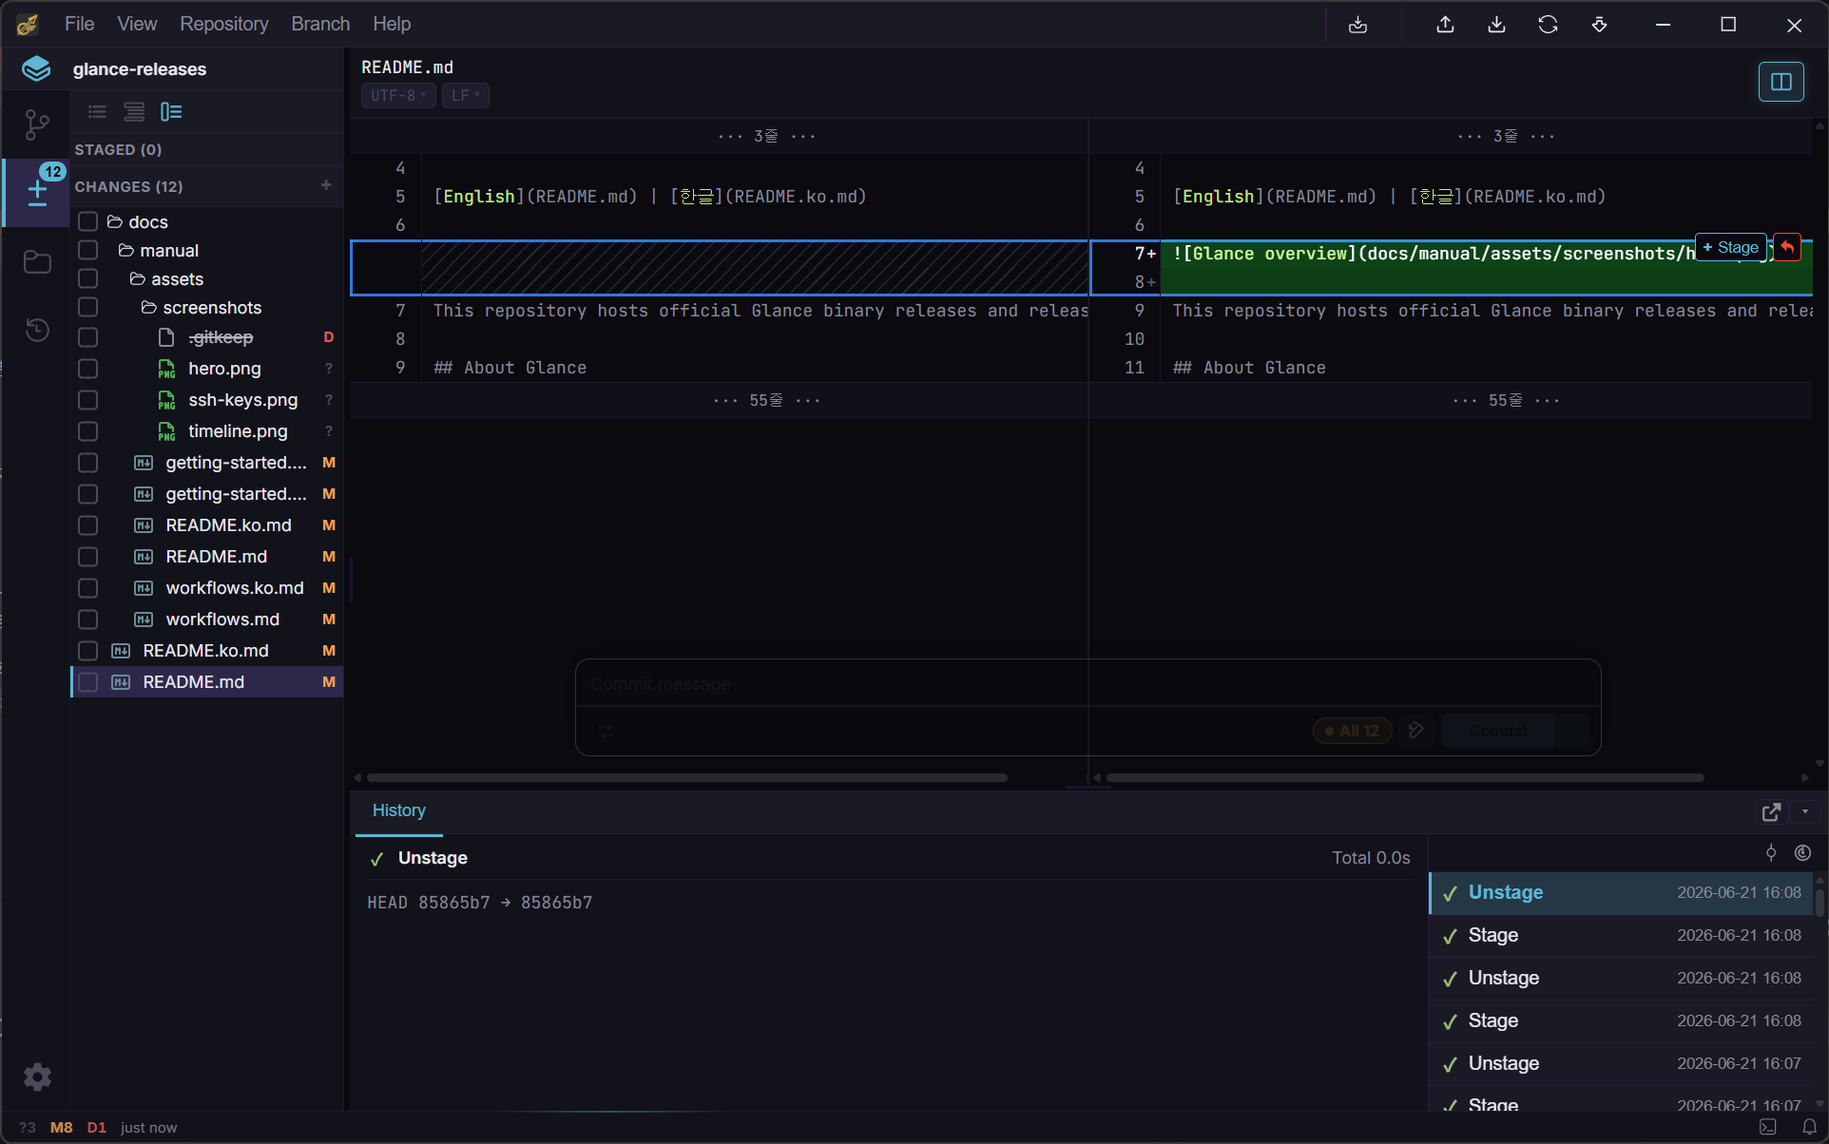
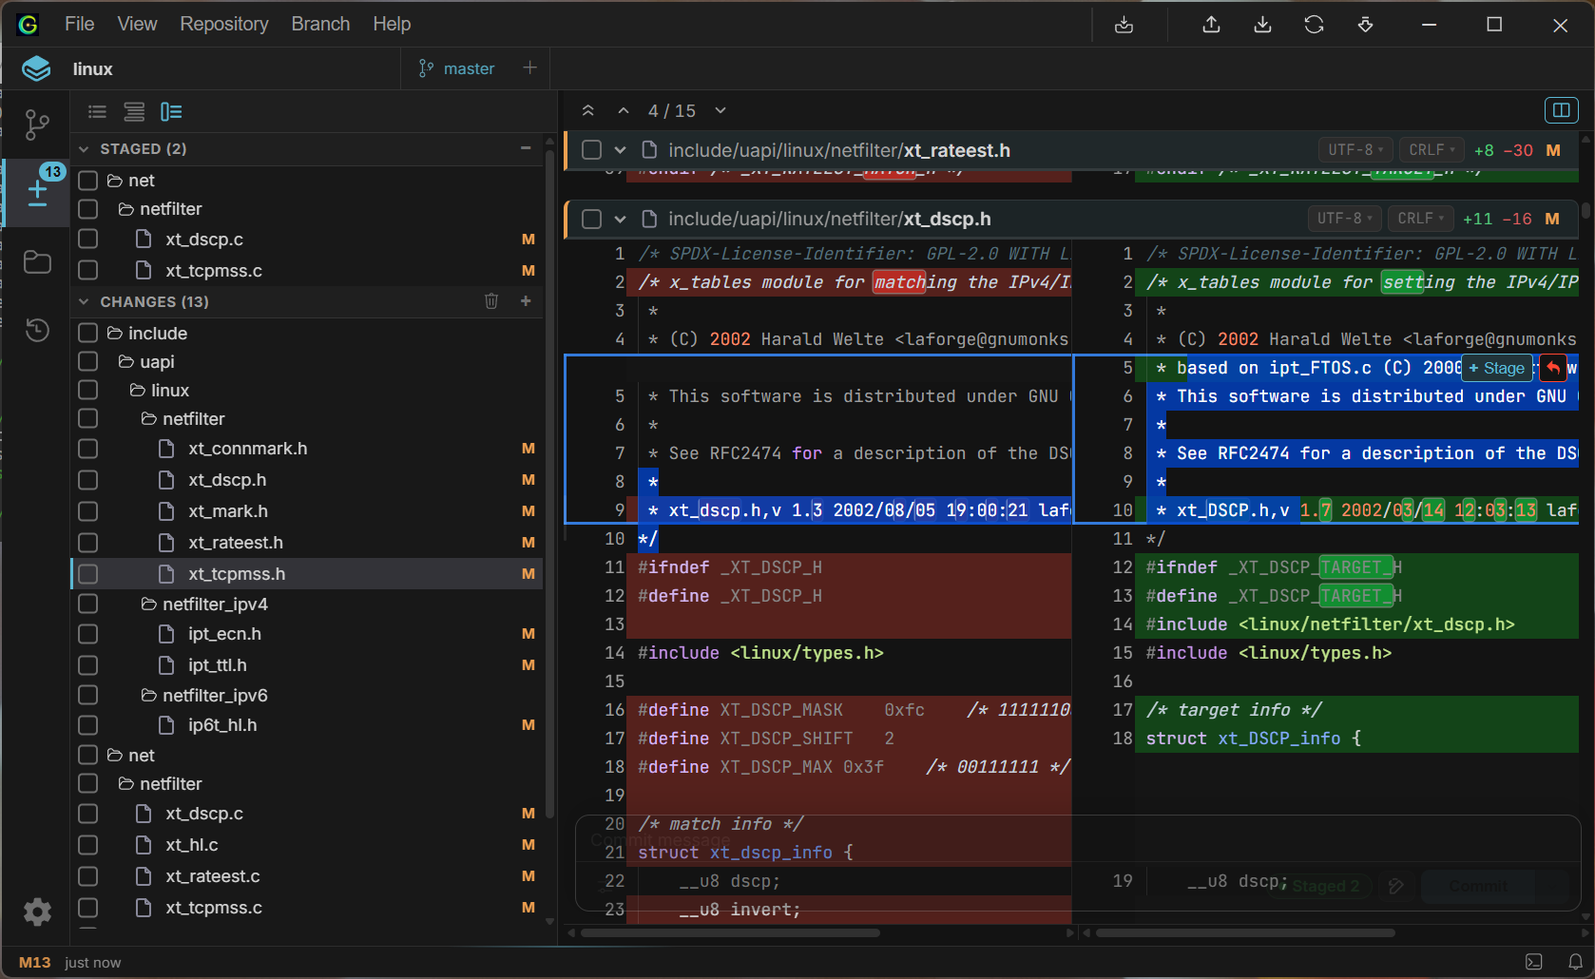
Docs: Promote LFS locking, worktree tabs, and other 0.85.x features
Several user-facing features that shipped across 0.85.1-0.85.6 were only
ever mentioned in CHANGELOG.md and never made it into the README or
manual: Git LFS file locking, the LFS tracking guardrail, worktree tabs,
Rebase onto upstream, Windows taskbar progress, diff view enhancements
(word-level highlighting, per-field CSV coloring, indent guides), pull
auto-stash-retry, and the fetch results toast.

Also fixes the Worktrees section, which still described the pre-0.85.4
sidebar selector, and corrects stale "personal/non-commercial only"
license wording left over in the German and Japanese READMEs.

Adds new screenshots for the worktree tab strip and Git LFS locking, and
recaptures staging.png to show the unified multi-file diff view instead
of the pre-0.85.1 hunk-only view.

Updated README.md and docs/manual/workflows.md across all four languages
(EN/KO/DE/JA).

diff --git a/docs/manual/workflows.de.md b/docs/manual/workflows.de.md
@@ -28,13 +28,16 @@ Wenn ein Hard-Reset fehlschlägt, können Sie mit [Timeline](#timeline) normaler
 
 Der Tab **Changes** ist Ihr Staging-Bereich des Arbeitsverzeichnisses, aufgeteilt in **Staged**, **Unstaged** und (falls vorhanden) **Conflicts** Abschnitte. Wechseln Sie zwischen den Layouts Flat, Grouped und Tree, je nachdem, wie Sie eine große Änderungsmenge durchsuchen möchten.
 
+- Das Diff-Panel zeigt jede geänderte Datei in einem kontinuierlichen Scroll statt sie einzeln zu öffnen — schalten Sie zwischen einheitlichen und geteilten Layouts um und ziehen Sie über Zeilen, um einen Bereich auf einmal zu stage oder zu verwerfen
 - Aktivieren Sie ein Kontrollkästchen für eine Datei oder einen Ordner, um sie zu stage/unstage — Kontrollkästchen unterstützen `Ctrl`/`Shift` Mehrfachauswahl
-- Öffnen Sie den Diff einer Datei, um einzelne Hunks oder Zeilen zu stage oder zu verwerfen, nicht nur ganze Dateien
-- Verwerfen ist auf Datei- oder Hunk-Ebene verfügbar
+- Verwerfen ist auf Datei-, Hunk- oder Zeilen-Bereichs-Ebene verfügbar
+- Binärdateien zeigen eine Größenkarte statt eines Diffs
+- Wort-Level-Hervorhebung markiert genau, welche Zeichen sich in einer Zeile geändert haben; CSV/TSV-Diffs färben jede Spalte separat; Einzugsanleitungen markieren Verschachtelungstiefe in Code-Diffs
+- Ein Badge kennzeichnet große Binärdateien, die nicht von Git LFS verfolgt werden, mit einer Aktion **Track with LFS** zum Hinzufügen zu `.gitattributes` (die Größenschwelle und ob diese Überprüfung überhaupt läuft, sind in Settings konfigurierbar)
 - Schreiben Sie Ihre Commit-Nachricht im Panel unten und senden Sie sie mit `Ctrl+Enter` ab
 - Der Diff-Header zeigt die Kodierung jeder Datei (UTF-8, EUC-KR usw.) und Zeilenenden (LF/CRLF) an; für nicht-gestaffelte Arbeitskopie-Dateien können Sie durch Klicken auf einen Chip die Konvertierung durchführen
 
-Änderungen werden von einem File Watcher in Echtzeit erkannt — keine manuelle Aktualisierung erforderlich.
+Änderungen werden von einem File Watcher in Echtzeit erkannt — keine manuelle Aktualisierung erforderlich. Diese einheitliche Multi-Datei-Ansicht wird auch im **Changes**-Tab eines Commits angezeigt, sodass das Überprüfen der Historie genauso funktioniert wie das Überprüfen Ihres Arbeitsverzeichnisses.
 
 ### Co-Autoren und Signierung
 
@@ -47,14 +50,14 @@ Das Zahnradsymbol (⚙) über der Commit-Nachricht ermöglicht:
 
 Aktivieren Sie **Amend** im Commit-Panel, um Ihre gestaffelten Änderungen in den vorherigen Commit zu falten, anstatt einen neuen zu erstellen. Die Nachricht und der Autor werden aus diesem Commit vorgefüllt, und der Abschnitt Staged zeigt, was der geänderte Commit enthält — Zeilen, die bereits in `HEAD` sind, sind schreibgeschützt, und das Unstagen einer Datei entfernt sie aus dem Amend.
 
-![Changes-Panel mit Hunk-Level-Staging](assets/screenshots/staging.png)
+![Changes-Panel mit Multi-Datei-Diff und Wort-Level-Hervorhebung](assets/screenshots/staging.png)
 
 ## Branching & Merging
 
-Erstellen, checken Sie aus, benennen Sie um und löschen Sie Branches aus der Seitenleiste oder dem Branch-Menü. Checkout zeigt den Fortschritt für große Repos und berührt nur die Pfade, die sich tatsächlich geändert haben.
+Erstellen, checken Sie aus, benennen Sie um und löschen Sie Branches aus der Seitenleiste oder dem Branch-Menü. Checkout zeigt den Fortschritt für große Repos und berührt nur die Pfade, die sich tatsächlich geändert haben; unter Windows zeigen langwierige Operationen (Checkout, Pull, Push, Rebase, Sync und mehr) auch den Fortschritt auf dem Taskbar-Icon, auch wenn das Fenster minimiert ist.
 
 - **Merge** einen Branch in den aktuellen (Fast-Forward oder echter Merge-Commit); wenn Konflikte auftreten, wird der Merge Editor geöffnet
-- **Rebase onto** einen Branch oder Commit — der Fortschritt wird phasenweise angezeigt (Checkout, Commit-Replay usw.)
+- **Rebase onto** einen Branch oder Commit — der Fortschritt wird phasenweise angezeigt (Checkout, Commit-Replay usw.); wenn der Branch ein Upstream konfiguriert hat, wird sein Kontextmenü auch eine One-Click-Option **Rebase onto upstream** anbieten
 - **Cherry-pick** einen Commit aus seinem Kontextmenü auf den aktuellen Branch
 - **Tags** können einzeln erstellt, gelöscht und gepusht werden; mit Anmerkungen versehene Tag-Nachrichten sind inline sichtbar
 
@@ -76,7 +79,7 @@ Wenn Sie lieber ein externes Tool verwenden möchten (Beyond Compare, WinMerge, 
 
 ## Remote-Synchronisierung
 
-Fügen Sie Remotes aus der Seitenleiste hinzu, bearbeiten oder entfernen Sie diese. Fetch wird bei Bedarf ausgeführt oder läuft automatisch im Hintergrund (standardmäßig alle 3 Minuten — anpassbar in den Einstellungen). Push unterstützt Force und Force-with-Lease. Pull kann Merge durchführen (Fast-Forward oder Three-Way, mit Konfliktauflösung) oder Rebase.
+Fügen Sie Remotes aus der Seitenleiste hinzu, bearbeiten oder entfernen Sie diese. Fetch wird bei Bedarf ausgeführt oder läuft automatisch im Hintergrund (standardmäßig alle 3 Minuten — anpassbar in den Einstellungen) und zeigt danach einen Ergebnis-Toast — neue, aktualisierte oder gelöschte Branches und Tags, mehrere Remotes zu einer einzigen Karte zusammengefasst. Push unterstützt Force und Force-with-Lease. Pull kann Merge durchführen (Fast-Forward oder Three-Way, mit Konfliktauflösung) oder Rebase; wenn nicht committete Änderungen dabei im Weg stehen, bietet Glance an, sie zu stashen, es erneut zu versuchen und sie danach wiederherzustellen — automatisch, unabhängig von Pull-Strategie oder Engine, mit einem Fallback, falls der erneute Versuch immer noch Konflikte verursacht.
 
 ### SSH-Remotes
 
@@ -93,7 +96,9 @@ Für SSH-basiertes Clone/Fetch/Push richten Sie einen Schlüssel unter **Setting
 
 ### Worktrees
 
-Rechtsklick auf den Repository-Header → **New worktree**, um einen anderen Branch in seinen eigenen Ordner auszuchecken, ohne den aktuellen zu beeinträchtigen — hilfreich, um gleichzeitig an zwei Dingen zu arbeiten. Wählen Sie einen Starting-Branch, einen Zielpath und einen Namen. Wechseln Sie zwischen Worktrees über die Worktree-Auswahl in der Seitenleiste; löschen Sie eine mit dem × neben ihrem Namen (der Worktree, in dem Sie sich derzeit befinden, kann nicht gelöscht werden).
+Worktrees werden als Tabs in einem Strip unterhalb der Titelleiste neben dem aktuellen Repository angezeigt — nützlich, um gleichzeitig an zwei Dingen zu arbeiten, ohne den aktuellen Checkout zu beeinträchtigen. Klicken Sie auf **+** zum Hinzufügen: wählen Sie einen Starting-Branch, einen Zielordner und einen Namen (der Pfad ist standardmäßig `<Ordner>/<Branch>`, kann aber vor der Erstellung bearbeitet werden). Klicken Sie auf einen Tab zum sofortigen Wechsel; Rechtsklick auf einen zum Löschen (der Worktree, in dem Sie sich derzeit befinden, kann nicht gelöscht werden). Wenn mehr Worktrees vorhanden sind als in den Strip passen, zeigt eine Schaltfläche "+N" die restlichen an.
+
+![Worktree-Tab-Strip unterhalb der Titelleiste](assets/screenshots/worktree-tabs.png)
 
 ### Submodules
 
@@ -117,7 +122,11 @@ Der Tab **File Explorer** durchsucht den vollständigen Repository-Baum (nicht n
 
 Aus dem Kontextmenü einer Datei können Sie auch deren **Verlauf** anzeigen (jeden Commit, der sie berührt hat) oder dessen **Blame** (Zeile-für-Zeile Autoren-/Commit-Anmerkungen).
 
-Dateien, die mit Git LFS verfolgt werden, zeigen ein Badge im Baum und werden bei Bedarf heruntergeladen — über die `filter=lfs`-Einstellung in `.gitattributes` ist keine separate Einrichtung erforderlich.
+Dateien, die mit Git LFS verfolgt werden, zeigen ein Badge im Baum. Die LFS-Unterstützung von Glance ist ein nativer, reiner-Rust-Client — kein externer `git-lfs`-Binary erforderlich — der Pointer-Dateien und Inhalte automatisch konvertiert, fehlende Inhalte bei Checkout, Reset und Discard in einer einzigen Batch-Anfrage statt dateiweise herunterlädt und LFS-verwaltete Bilder auf Anfrage inline mit Fortschrittsanzeige für größere Transfers in der Vorschau anzeigt. Abgesehen davon, dass `filter=lfs` in `.gitattributes` gesetzt ist, ist keine separate Einrichtung erforderlich. Falls Sie Downloads lieber über Ihren eigenen `git-lfs`-CLI weitergeben möchten, ist das auch in Settings konfigurierbar.
+
+Die Datei-Sperrung ist ebenfalls integriert: Sperren oder entsperren Sie eine LFS-verwaltete Datei (oder erzwingen Sie die Entsperrung der Sperre einer anderen Person) aus dem Kontextmenü im File Explorer oder im Changes-Panel und filtern Sie beide Listen so, dass nur gesperrte Dateien angezeigt werden. Ein Sperr-Badge zeigt, welche Dateien derzeit gesperrt sind.
+
+![LFS-Sperr-Badge und der Locks-Only-Filter](assets/screenshots/lfs-locking.png)
 
 ## Timeline
 

diff --git a/docs/manual/workflows.md b/docs/manual/workflows.md
@@ -28,13 +28,16 @@ If a hard reset goes wrong, [Timeline](#timeline) can usually get you back.
 
 The **Changes** tab is your working directory staging area, split into **Staged**, **Unstaged**, and **Conflicts** (when present) sections. Switch between Flat, Grouped, and Tree layouts depending on how you like to scan a large changeset.
 
+- The diff panel shows every changed file in one continuous scroll instead of opening them one at a time — toggle between unified and split layouts, and drag across lines to stage or discard a range at once
 - Check a file or folder to stage/unstage it; checkboxes support `Ctrl`/`Shift` multi-select
-- Open a file's diff to stage or discard individual hunks or lines, not just whole files
-- Discard is available at the file or hunk level
+- Discard is available at the file, hunk, or line-range level
+- Binary files show a size card instead of a diff
+- Word-level highlighting marks exactly which characters changed within a line; CSV/TSV diffs color each column separately; indent guides mark nesting depth in code diffs
+- A badge flags large binary files that aren't tracked by Git LFS, with a one-click **Track with LFS** action to add them to `.gitattributes`; the size threshold — and whether this check runs at all — is configurable in Settings
 - Write your commit message in the panel below and submit with `Ctrl+Enter`
 - The diff header shows each file's encoding (UTF-8, EUC-KR, etc.) and line ending (LF/CRLF); for unstaged working-copy files, clicking either chip lets you convert it
 
-Changes are detected in real time by a file watcher — no manual refresh needed.
+Changes are detected in real time by a file watcher — no manual refresh needed. The same unified multi-file view also appears in a commit's **Changes** tab, so reviewing history works the same way as reviewing your working directory.
 
 ### Co-authors and signing
 
@@ -47,14 +50,14 @@ The gear icon (⚙) above the commit message adds:
 
 Toggle **Amend** in the commit panel to fold your staged changes into the previous commit instead of creating a new one. The message and author pre-fill from that commit, and the Staged section shows what the amended commit will contain — lines already in `HEAD` are read-only, and unstaging a file removes it from the amend.
 
-![Changes panel with hunk-level staging](assets/screenshots/staging.png)
+![Changes panel with multi-file diff and word-level highlighting](assets/screenshots/staging.png)
 
 ## Branching & merging
 
-Create, checkout, rename, and delete branches from the sidebar or the Branch menu. Checkout shows progress for large repos and only touches the paths that actually changed.
+Create, checkout, rename, and delete branches from the sidebar or the Branch menu. Checkout shows progress for large repos and only touches the paths that actually changed; on Windows, long-running operations (checkout, pull, push, rebase, sync, and more) also show progress on the taskbar icon, even while the window is minimized.
 
 - **Merge** a branch into the current one (fast-forward or a real merge commit); conflicts, if any, open the Merge Editor
-- **Rebase onto** a branch or commit — progress is shown phase-by-phase (checking out, replaying commits, etc.)
+- **Rebase onto** a branch or commit — progress is shown phase-by-phase (checking out, replaying commits, etc.); if the branch has an upstream configured, its context menu also offers a one-click **Rebase onto upstream**
 - **Cherry-pick** a commit onto the current branch from its context menu
 - **Tags** can be created, deleted, and pushed individually; annotated tag messages are viewable inline
 
@@ -76,7 +79,7 @@ If you'd rather use an external tool (Beyond Compare, WinMerge, KDiff3, and simi
 
 ## Remote sync
 
-Add, edit, or remove remotes from the sidebar. Fetch runs on demand or automatically in the background (default every 3 minutes — adjustable in Settings). Push supports force and force-with-lease. Pull can merge (fast-forward or three-way, with conflict resolution) or rebase.
+Add, edit, or remove remotes from the sidebar. Fetch runs on demand or automatically in the background (default every 3 minutes — adjustable in Settings), and shows a results toast for what came in — new/updated/deleted branches and tags, with multiple remotes merged into a single card. Push supports force and force-with-lease. Pull can merge (fast-forward or three-way, with conflict resolution) or rebase; if uncommitted changes would block it, Glance offers to stash them, retry, and restore them afterward — automatically, regardless of pull strategy or engine, with a fallback if the retry still conflicts.
 
 ### SSH remotes
 
@@ -93,7 +96,9 @@ For SSH-based clone/fetch/push, set up a key under **Settings → SSH Keys**:
 
 ### Worktrees
 
-Right-click the repository header → **New worktree** to check out another branch into its own folder, without disturbing your current one — useful for working on two things at once. Pick a starting branch, a target path, and a name. Switch between worktrees from the sidebar's worktree selector; delete one with the × next to its name (the worktree you're currently in can't be deleted).
+Worktrees appear as tabs in a strip below the title bar, next to the current repository — useful for working on two things at once without disturbing your current checkout. Click **+** to add one: pick a starting branch, a target folder, and a name (the path defaults to `<folder>/<branch>`, editable before creating). Click a tab to switch instantly; right-click one to delete it (the worktree you're currently in can't be deleted). When there are more worktrees than fit in the strip, a "+N" button lists the rest.
+
+![Worktree tab strip below the title bar](assets/screenshots/worktree-tabs.png)
 
 ### Submodules
 
@@ -118,6 +123,10 @@ The **File Explorer** tab browses the full repository tree (not just changed fil
 From a file's context menu you can also view its **history** (every commit that touched it) or its **blame** (line-by-line author/commit annotations).
 
 Files tracked with Git LFS show a badge in the tree. Glance's LFS support is a native, pure-Rust client — no external `git-lfs` binary required — that converts pointer files and content automatically, downloads missing content in a single batched request on checkout, reset, and discard instead of one file at a time, and previews LFS-tracked images inline on demand, with progress shown for larger transfers. Beyond having `filter=lfs` set in `.gitattributes`, there's no separate setup. If you'd rather route downloads through your own `git-lfs` CLI, that's configurable in Settings too.
+
+File locking is built in as well: lock or unlock an LFS-tracked file (or force-unlock someone else's lock) from its context menu in the File Explorer or the Changes panel, and filter either list down to locked files only. A lock badge shows which files are currently locked.
+
+![LFS lock badge and the Locks Only filter](assets/screenshots/lfs-locking.png)
 
 ## Timeline
 

diff --git a/README.de.md b/README.de.md
@@ -14,17 +14,19 @@ Dieses Repository hostet die offiziellen Glance-Binärreleases und Release Notes
 
 Glance ist eine Git-GUI, die von Grund auf mit einer Obsession entwickelt wurde: **Geschwindigkeit**. Sie bleibt reaktiv in Repositories mit Millionen von Commits und Hunderttausenden von Dateien und behält dabei einen winzigen Speicher-Footprint.
 
-Glance ist **für persönliche und nichtkommerzielle Nutzung vollständig kostenlos** — kein Trial-Timer, keine Funktionssperrung, keine Kontoerstellung erforderlich.
+Glance ist **jetzt vollständig kostenlos für alle — persönliche und kommerzielle Nutzung gleichermaßen** — kein Trial-Timer, keine Funktionssperrung, keine Kontoerstellung erforderlich. (Eine bezahlte kommerzielle Lizenz ist für eine zukünftige Version geplant; sie wird nicht beeinflussen, was Sie bereits haben.)
 
 Entwickelt als Solo-Projekt — mein Hauptjob ist C++-Spieleentwicklung, aber für dieses Projekt habe ich Rust, Tauri und Solid.js gelernt und mit viel AI-Pairing entwickelt.
 
 ### Highlights
 
-- **Schnell, wo andere stottern** — sofortige Reaktion bei Enterprise-Scale-Monorepos
+- **Schnell, wo andere stottern** — sofortige Reaktion bei Enterprise-Scale-Monorepos; [in Aktion sehen](docs/manual/performance.de.md)
 - **Leicht im Speicherverbrauch** — nicht die gigabyteintensive Sorte
-- **Tauri-Runtime** — kleiner Installer, kein Electron-großer Footprint
+- **Tauri-Runtime** — kleiner Installer, kein Electron-großer Footprint, mit nativen Besonderheiten wie Windows-Taskleisten-Fortschritt bei langwierigen Operationen
 - **Vollständiger Git-Workflow** — Branch, Merge, Rebase, Stash, Cherry-Pick, Blame, Historien-Visualisierung
-- **Integrierte Konfliktlösung & Worktrees** — ein visueller Drei-Wege-Merge-Editor sowie native Worktree-Unterstützung für die gleichzeitige Arbeit an mehreren Branches
+- **Integrierte Konfliktlösung** — ein visueller Drei-Wege-[Merge Editor](docs/manual/workflows.de.md#konflikte-lösen) für Merges, Rebases und Cherry-Picks
+- **Native Worktrees als Tabs** — checken Sie einen anderen Branch in seinen eigenen Ordner aus, ohne den aktuellen zu beeinträchtigen, und wechseln Sie mit einem Tab-Strip statt durch ein Menü zu graben; siehe [Worktrees](docs/manual/workflows.de.md#worktrees)
+- **Natives Git LFS mit Datei-Sperrung** — reiner Rust-Client, kein externer `git-lfs`-Binary erforderlich; Batch-Downloads und Inline-Vorschau statt einzeln, plus eingebaute Datei-Sperrung (die meisten Git GUIs überlassen das dem CLI); siehe [Git LFS](docs/manual/workflows.de.md#dateien-erkunden)
 
 ### Für wen es gedacht ist
 
@@ -51,7 +53,7 @@ Neu bei Glance? Das [Handbuch](docs/manual/README.de.md) behandelt die ersten Sc
 
 ## Glance unterstützen
 
-Glance ist für persönliche und nichtkommerzielle Nutzung vollständig kostenlos. Wenn es für Sie nützlich ist, [erwägen Sie eine kleine Spende](https://onmcore.github.io/glance-releases/sponsor.html) — völlig optional und ein großer Beitrag zur Fortsetzung der Entwicklung.
+Glance ist jetzt für alle kostenlos, auch für kommerzielle Nutzung — ohne Lizenzschlüssel oder Zahlung erforderlich. Freiwillige Spenden sind willkommen, aber völlig optional. Eine bezahlte kommerzielle Lizenz ist für eine zukünftige Version geplant; sie wird bereits unter dieser Vereinbarung veröffentlichte Versionen nicht ändern.
 
 ## Fehlerberichte & Feedback
 
@@ -62,7 +64,7 @@ Glance wird nur von mir entwickelt — ich lese jeden Bericht persönlich, daher
 
 ## Lizenz
 
-Glance ist für persönliche und nichtkommerzielle Nutzung kostenlos nutzbar. Freiwillige Spenden sind willkommen, aber optional.
+Glance ist jetzt für alle kostenlos verwendbar, einschließlich kommerzieller Nutzung — kein Lizenzschlüssel oder Zahlung erforderlich. Freiwillige Spenden sind willkommen, aber optional. Eine bezahlte kommerzielle Lizenz ist für eine zukünftige Version geplant; sie wird Versionen, die bereits unter dieser Vereinbarung veröffentlicht wurden, nicht ändern.
 
 Unmodifizierte Weiterverbreitung ist erlaubt; Reverse-Engineering, Modifikation und Umpaketierung sind nicht erlaubt (siehe [LICENSE](./LICENSE)). Keine Gewährleistung.
 

diff --git a/README.md b/README.md
@@ -22,11 +22,11 @@ Built solo — my day job is C++ game development, but I picked up Rust, Tauri, 
 
 - **Fast where others stall** — instant response on enterprise-scale monorepos; see it [in action](docs/manual/performance.md)
 - **Light on memory** — not the gigabyte-hungry kind
-- **Tauri runtime** — small installer, no Electron-sized footprint
+- **Tauri runtime** — small installer, no Electron-sized footprint, with native touches like Windows taskbar progress on long-running operations
 - **Full Git workflow** — branch, merge, rebase, stash, cherry-pick, blame, history visualization
 - **Built-in conflict resolution** — a visual three-way [Merge Editor](docs/manual/workflows.md#resolving-conflicts) for merges, rebases, and cherry-picks
-- **Native worktrees** — check out another branch into its own folder without disturbing your current one; see [Worktrees](docs/manual/workflows.md#worktrees)
-- **Native Git LFS** — pure-Rust client, no external `git-lfs` binary; batched downloads and inline previews instead of one-file-at-a-time fetches; see [Git LFS](docs/manual/workflows.md#exploring-files)
+- **Native worktrees, as tabs** — check out another branch into its own folder without disturbing your current one, and switch between them from a tab strip instead of digging through a menu; see [Worktrees](docs/manual/workflows.md#worktrees)
+- **Native Git LFS, locking included** — pure-Rust client, no external `git-lfs` binary; batched downloads and inline previews instead of one-file-at-a-time fetches, plus built-in file locking (most Git GUIs leave that to the CLI); see [Git LFS](docs/manual/workflows.md#exploring-files)
 
 ### Who it's for
 
